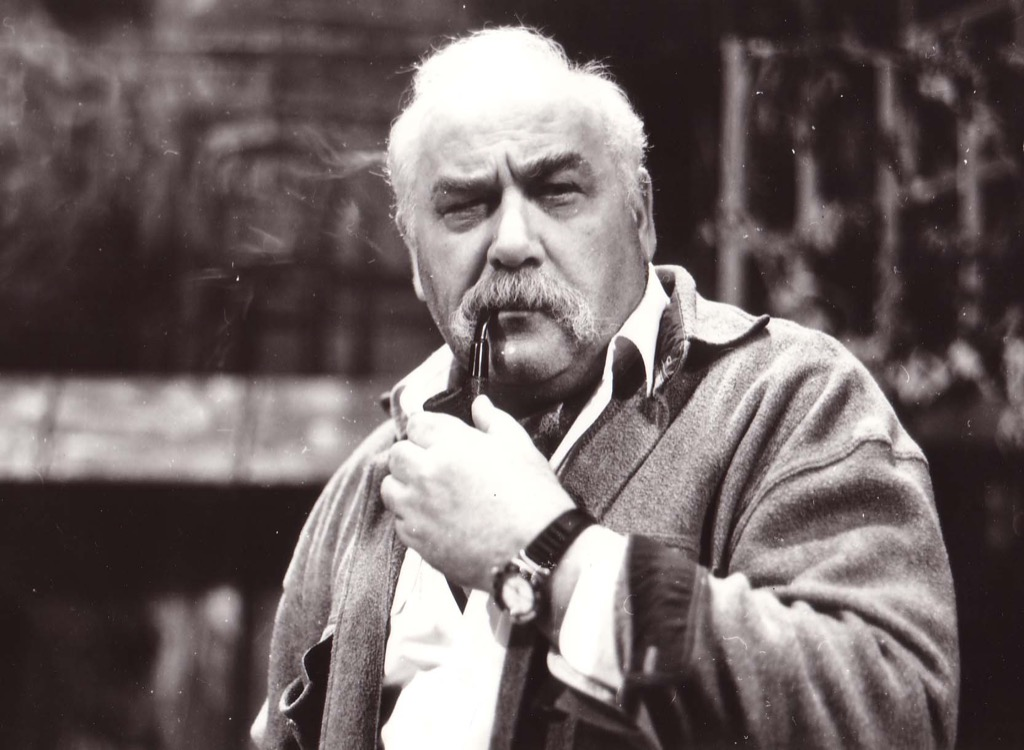
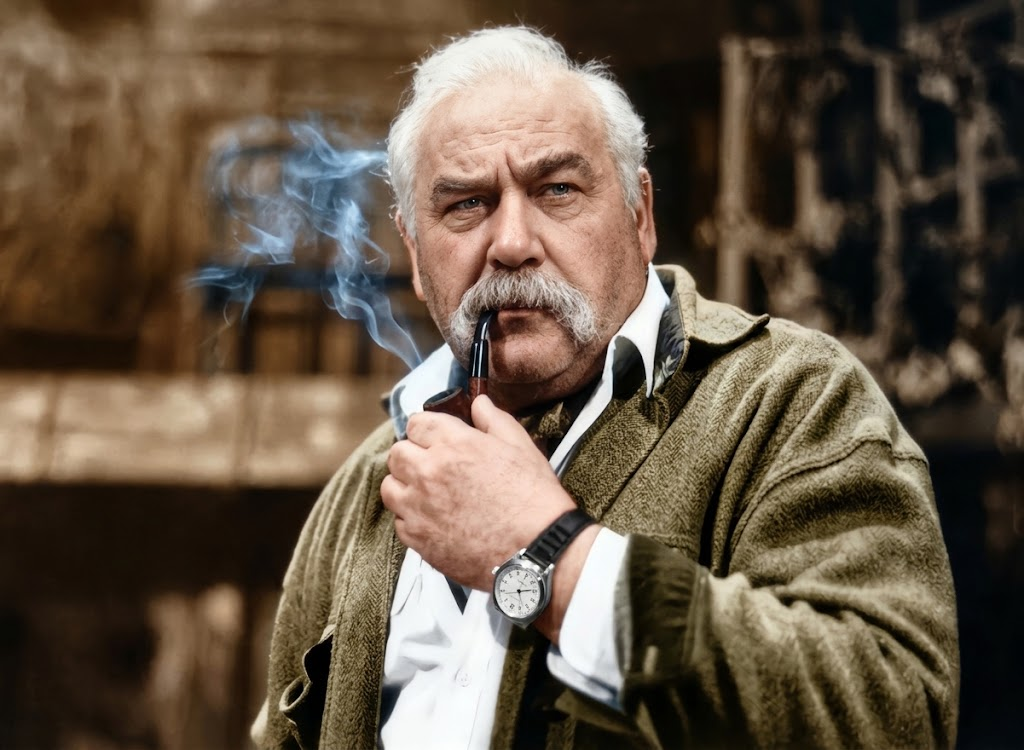
approve fedir stryhun; colorized portrait

diff --git a/src/content/people/uk/fedir-stryhun.md b/src/content/people/uk/fedir-stryhun.md
@@ -3,7 +3,7 @@ name: Федір Стригун
 gender: male
 born: 1939-11-01
 died: 2026-10-23
-last_reviewed: 2026-10-24
+last_reviewed: 2026-10-26
 era: 20th-century
 group: performing-arts
 tags: [actor]
@@ -17,8 +17,9 @@ places:
   - { name: "Львів", lat: 49.842, lon: 24.031, note: "Театр імені Марії Заньковецької, з 1965 року; тут помер 2026 року" }
 image:
   src: ./images/fedir-stryhun.jpg
-  alt: "Чорно-біле фото: Федір Стригун із сивими вусами й люлькою в зубах, у сценічному костюмі"
+  alt: "Федір Стригун із сивими вусами й люлькою в зубах, у твідовій куртці"
   position: "50% 30%"
+  ai_edit: colorized
   author: "Na3ar"
   license: "CC BY-SA 4.0"
   source_url: "https://commons.wikimedia.org/wiki/File:UBN_009.jpg"
@@ -52,7 +53,8 @@ sources:
   - title: "Детектор медіа - У віці 86 років помер режисер та актор Федір Стригун (23.10.2026)"
     url: "https://detector.media/infospace/article/253465/2026-10-23-u-vitsi-86-rokiv-pomer-rezhyser-ta-aktor-fedir-strygun/"
 related: [ivan-mykolaichuk, mariia-zankovetska, mykola-sadovskyi, bohdan-stupka, andrei-sheptytskyi, taras-shevchenko, lina-kostenko, ivan-mazepa]
-status: draft
+status: approved
+published: 2026-10-26T20:42:53Z
 ---
 
 ## Порада, яка привела до Львова

diff --git a/src/content/people/en/fedir-stryhun.md b/src/content/people/en/fedir-stryhun.md
@@ -15,7 +15,7 @@ key_accomplishments:
   - "Productions of The Haidamaks after Shevchenko, Lina Kostenko’s Marusia Churai, the Mazepa trilogy after Bohdan Lepkyi, and Hamlet; Yaroslav Barnych’s operettas"
   - "Order of Merit, 3rd, 2nd and 1st class (1st class 2006); Order of Prince Yaroslav the Wise, 5th and 4th class (4th class 2014)"
 birthplace_name: "Tomashivka"
-image_alt: "Black-and-white photo: Fedir Stryhun with a grey moustache and a pipe, in stage costume"
+image_alt: "Fedir Stryhun with a grey moustache and a pipe, in a tweed jacket"
 ---
 
 ## The advice that led him to Lviv
